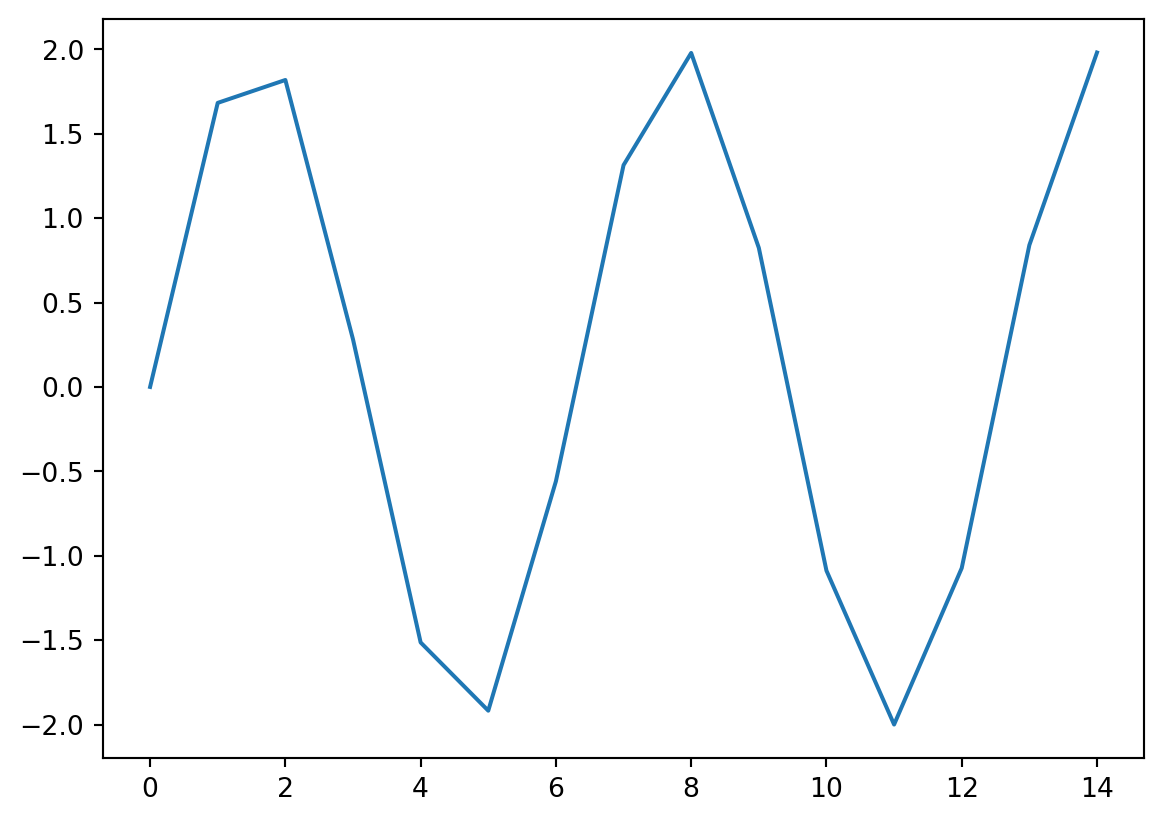
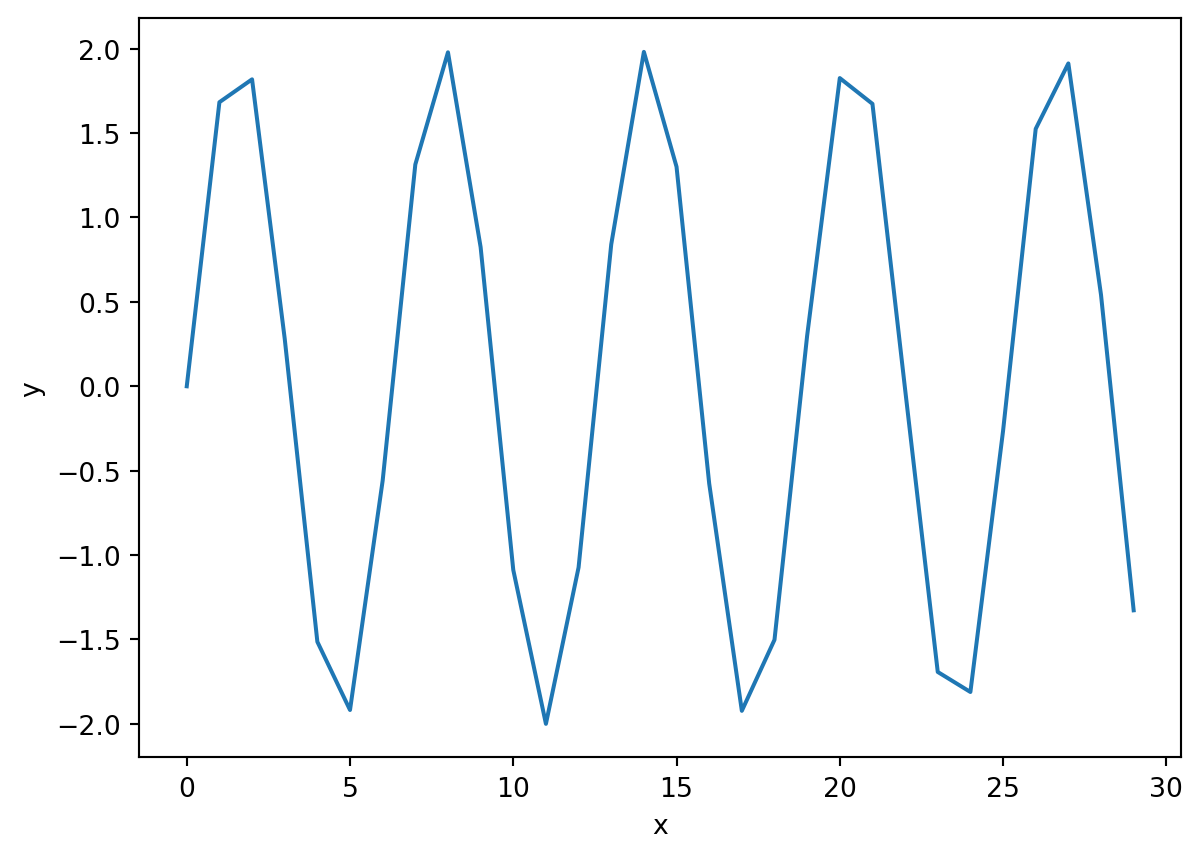
modified fig, testing publishing

diff --git a/computations.html b/computations.html
@@ -99,21 +99,23 @@ pre > code.sourceCode > span > a:first-child::before { text-decoration: underlin
 </header>
 
 
-<div id="2e0e76eb" class="cell" data-execution_count="1">
+<div id="a01ce087" class="cell" data-execution_count="1">
 <details class="code-fold">
 <summary>Code</summary>
 <div class="code-copy-outer-scaffold"><div class="sourceCode cell-code" id="cb1"><pre class="sourceCode python code-with-copy"><code class="sourceCode python"><span id="cb1-1"><a href="#cb1-1" aria-hidden="true" tabindex="-1"></a><span class="im">import</span> numpy <span class="im">as</span> np</span>
 <span id="cb1-2"><a href="#cb1-2" aria-hidden="true" tabindex="-1"></a><span class="im">import</span> matplotlib.pyplot <span class="im">as</span> plt</span>
 <span id="cb1-3"><a href="#cb1-3" aria-hidden="true" tabindex="-1"></a></span>
-<span id="cb1-4"><a href="#cb1-4" aria-hidden="true" tabindex="-1"></a>x <span class="op">=</span> np.arange(<span class="dv">15</span>)</span>
+<span id="cb1-4"><a href="#cb1-4" aria-hidden="true" tabindex="-1"></a>x <span class="op">=</span> np.arange(<span class="dv">30</span>)</span>
 <span id="cb1-5"><a href="#cb1-5" aria-hidden="true" tabindex="-1"></a>y <span class="op">=</span> <span class="dv">2</span> <span class="op">*</span> np.sin(x)</span>
 <span id="cb1-6"><a href="#cb1-6" aria-hidden="true" tabindex="-1"></a></span>
-<span id="cb1-7"><a href="#cb1-7" aria-hidden="true" tabindex="-1"></a>plt.plot(x,y)</span></code></pre></div><button title="Copy to Clipboard" class="code-copy-button"><i class="bi"></i></button></div>
+<span id="cb1-7"><a href="#cb1-7" aria-hidden="true" tabindex="-1"></a>plt.ylabel(<span class="vs">r'y'</span>)</span>
+<span id="cb1-8"><a href="#cb1-8" aria-hidden="true" tabindex="-1"></a>plt.xlabel(<span class="vs">r'x'</span>)</span>
+<span id="cb1-9"><a href="#cb1-9" aria-hidden="true" tabindex="-1"></a>plt.plot(x,y)</span></code></pre></div><button title="Copy to Clipboard" class="code-copy-button"><i class="bi"></i></button></div>
 </details>
 <div class="cell-output cell-output-display">
 <div>
 <figure class="figure">
-<p><img src="computations_files/figure-html/cell-2-output-1.png" width="582" height="411" class="figure-img"></p>
+<p><img src="computations_files/figure-html/cell-2-output-1.png" width="601" height="429" class="figure-img"></p>
 </figure>
 </div>
 </div>
